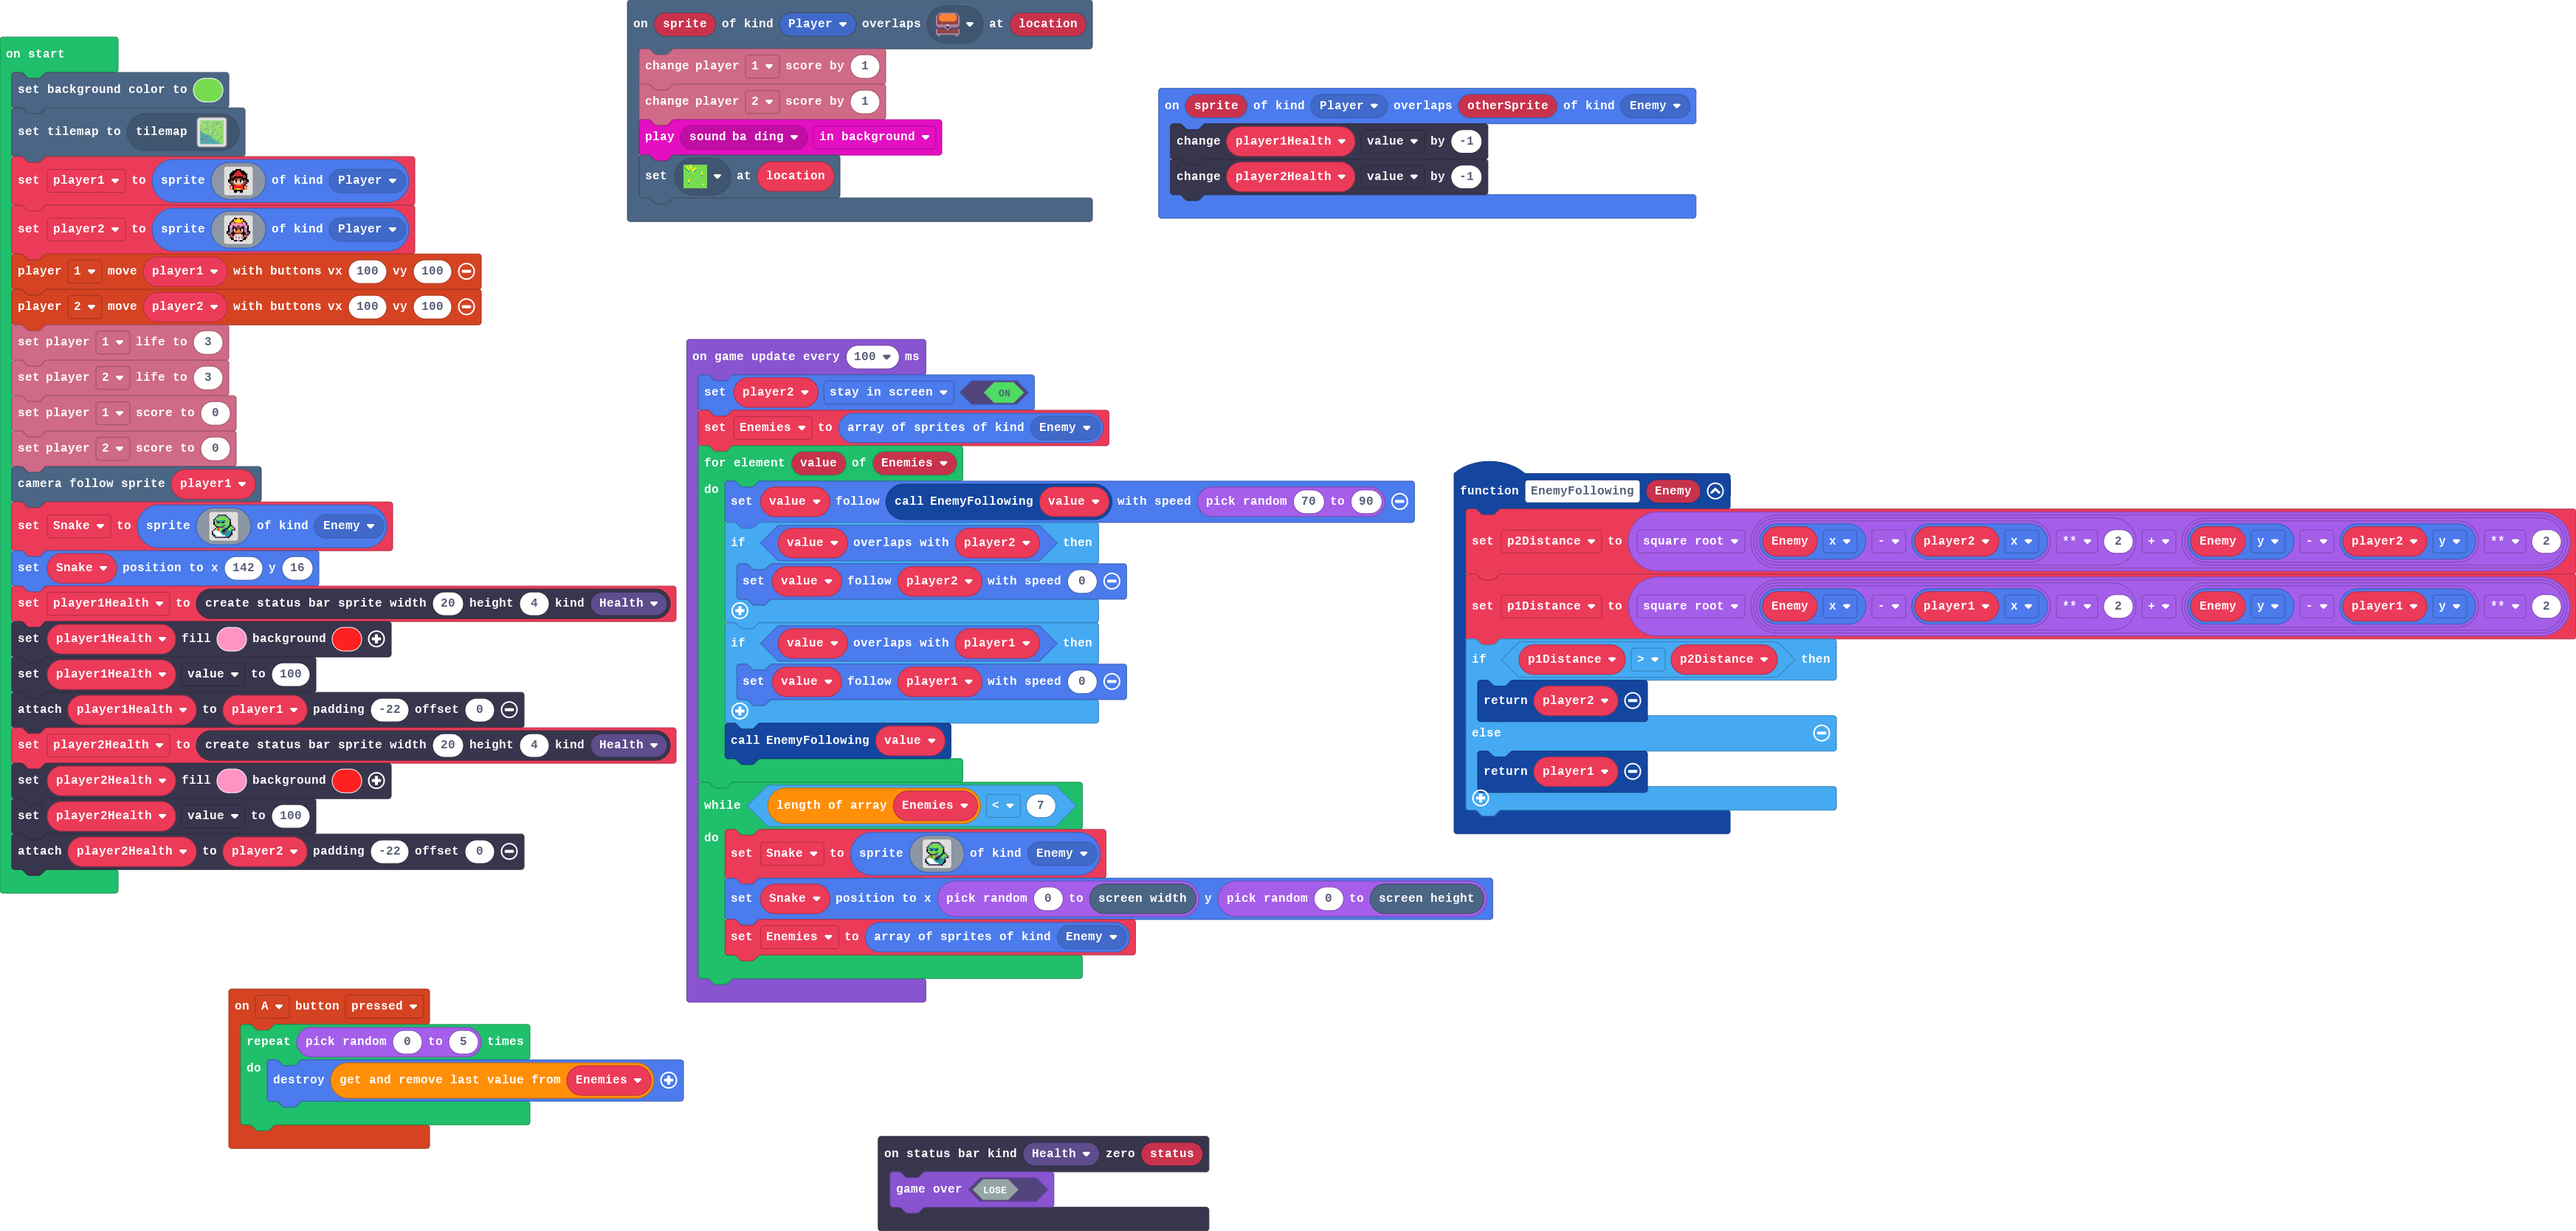
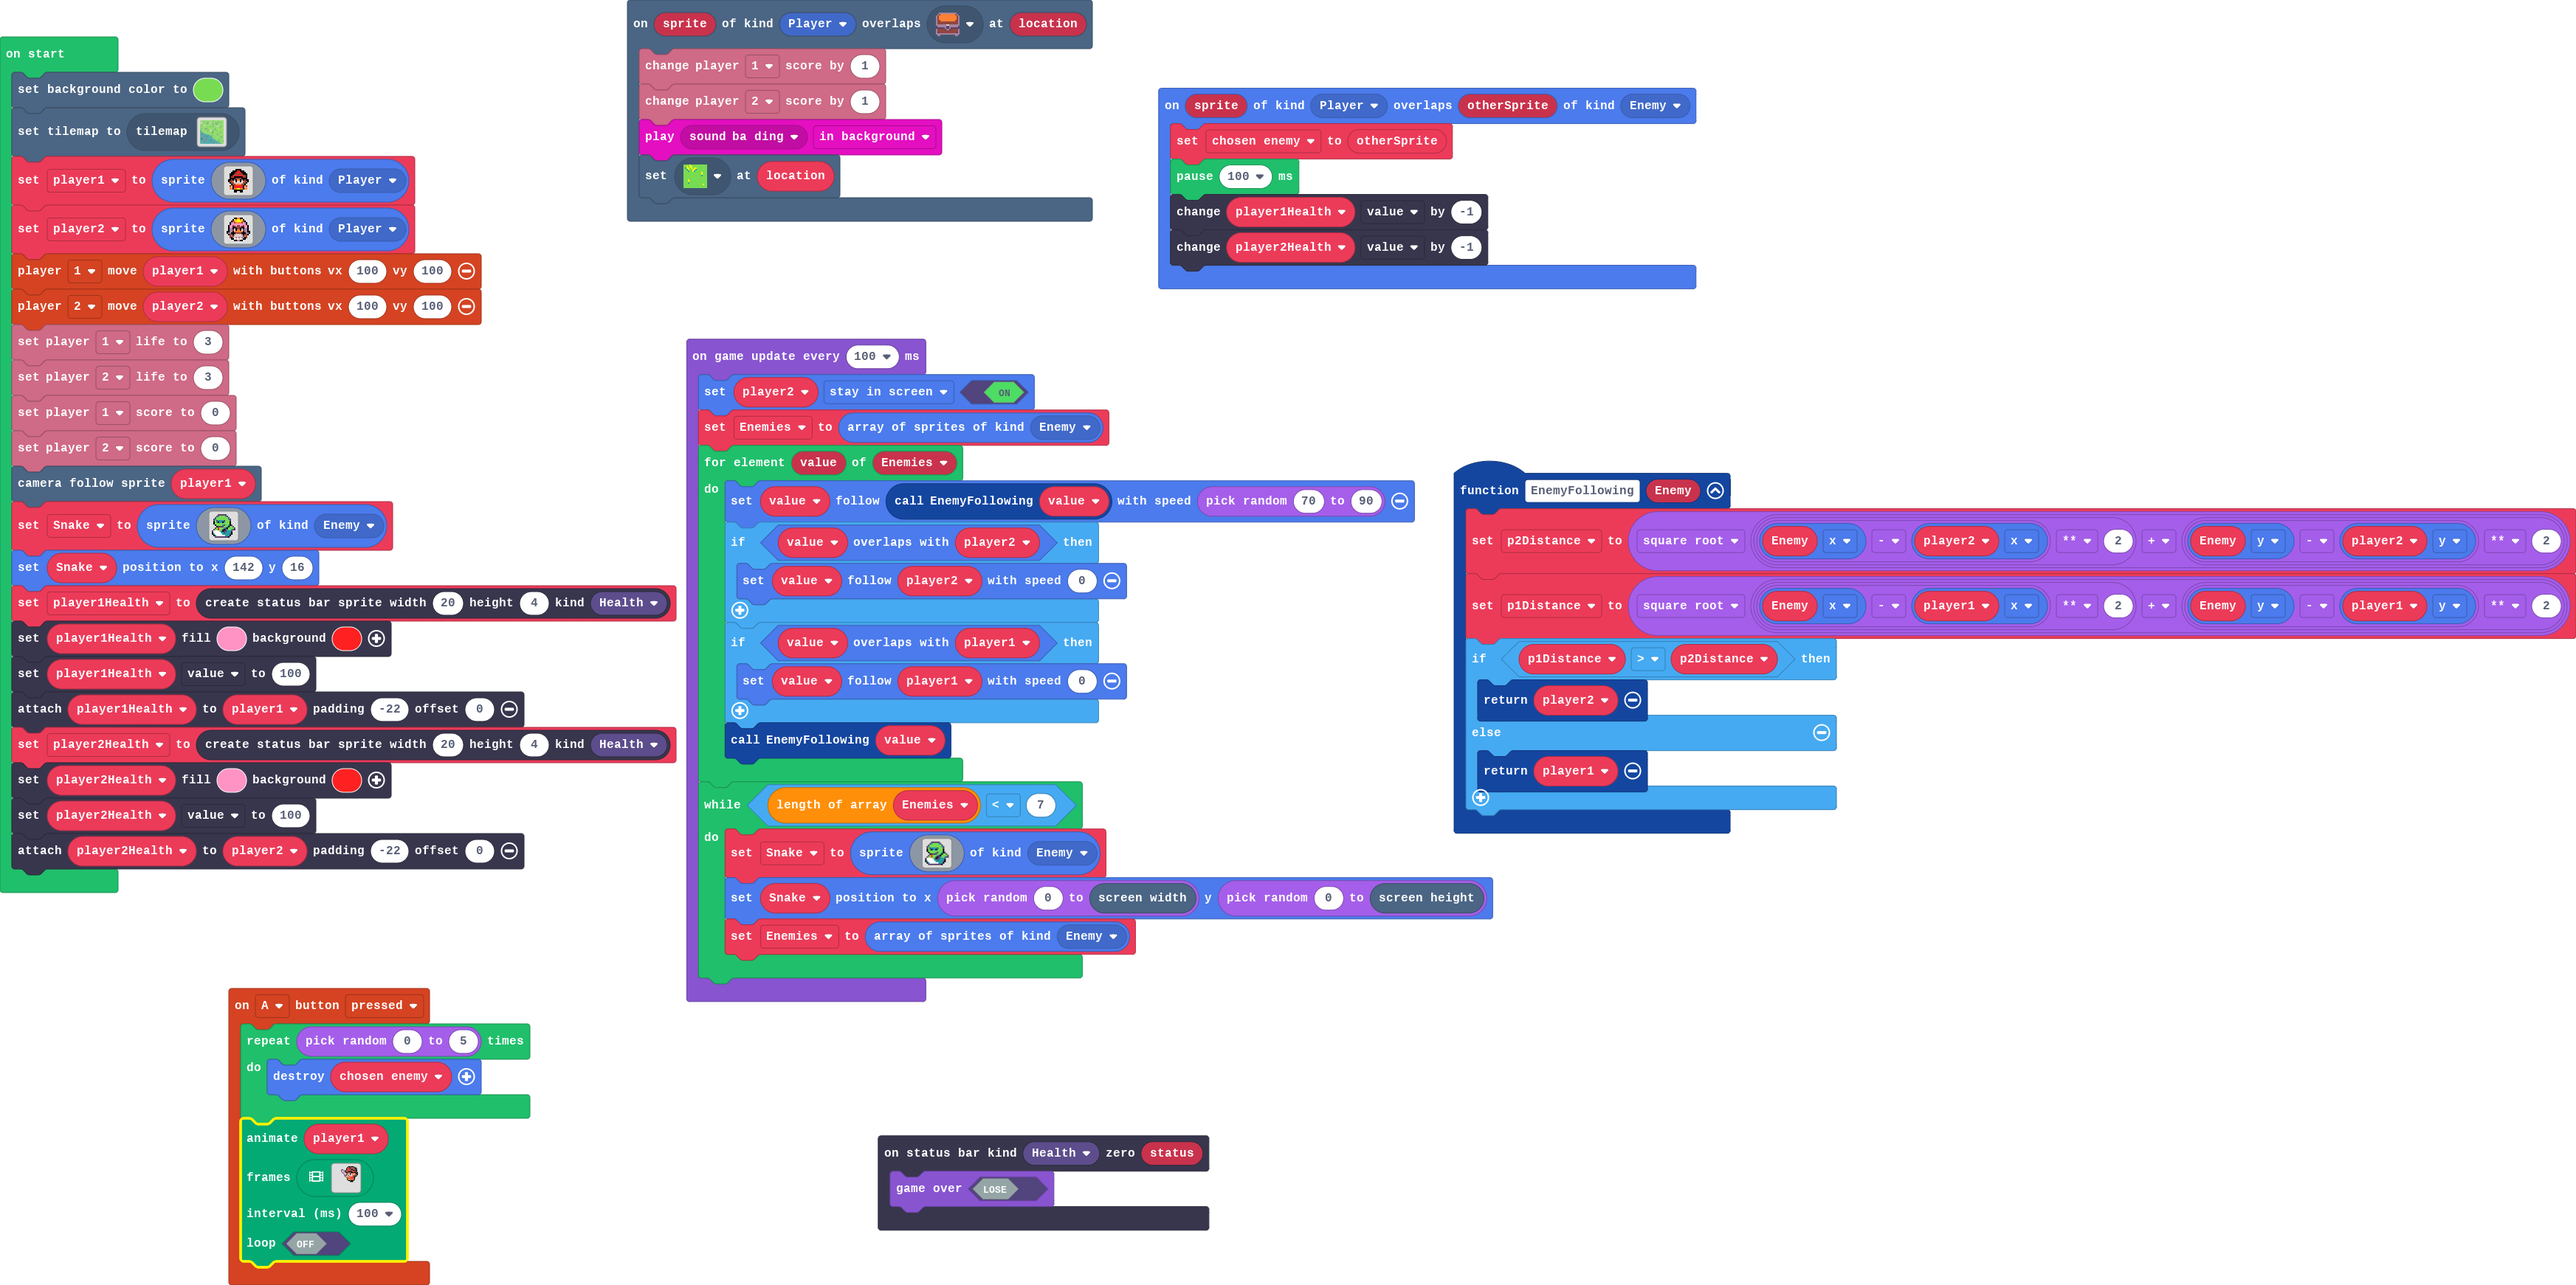
Update main.blocks, main.ts

diff --git a/main.ts b/main.ts
@@ -9,8 +9,114 @@ function EnemyFollowing (Enemy: Sprite) {
 }
 controller.A.onEvent(ControllerButtonEvent.Pressed, function () {
     for (let index = 0; index < randint(0, 5); index++) {
-        sprites.destroy(Enemies.pop())
+        sprites.destroy(chosen_enemy)
     }
+    animation.runImageAnimation(
+    player1,
+    [img`
+        ..............ffffff....
+        .............f2feeeeff..
+        ............f222feeeeff.
+        .......cc...feeeeffeeef.
+        .......cdc.fe2222eeffff.
+        .......cddcf2effff222ef.
+        ........cddcffeeefffffff
+        .........cddce44fbe44eff
+        ..........cdceddf14d4eef
+        ..........cccdeddd4eeef.
+        ...........edd4e44eeff..
+        ............ee442222f...
+        .............f2e2222f...
+        .............f554444f...
+        ..............ffffff....
+        ................fff.....
+        ........................
+        ........................
+        ........................
+        ........................
+        ........................
+        ........................
+        ........................
+        ........................
+        `,img`
+        ........................
+        ..............fff.......
+        .............f2fffff....
+        ...........ff22eeeeeff..
+        ..........ff222eeeeeeff.
+        ..........feeeefffeeeef.
+        .........fe2222eeefffff.
+        .........f2efffff222efff
+        ..cc.....fffeeefffffffff
+        ..cdcc...fee44fbbe44efef
+        ..ccddcc..feddfbb4d4eef.
+        ....cdddceefddddd4eeef..
+        .....ccdcddee2222222f...
+        ......cccdd44e544444f...
+        .........eeeeffffffff...
+        .............ff...fff...
+        ........................
+        ........................
+        ........................
+        ........................
+        ........................
+        ........................
+        ........................
+        ........................
+        `,img`
+        ...............ff.......
+        .............ff2ffff....
+        ............ff2feeeeff..
+        ...........ff22feeeeeff.
+        ...........feeeeffeeeef.
+        ..........fe2222eefffff.
+        ..........f2effff222efff
+        ..........fffeeeffffffff
+        ..........fee44fbe44efef
+        ...........feddfb4d4eef.
+        ..........c.eeddd4eeef..
+        ....ccccccceddee2222f...
+        .....dddddcedd44e444f...
+        ......ccccc.eeeefffff...
+        ..........c...ffffffff..
+        ...............ff..fff..
+        ........................
+        ........................
+        ........................
+        ........................
+        ........................
+        ........................
+        ........................
+        ........................
+        `,img`
+        ..............ffffff....
+        .............f2feeeeff..
+        ............f222feeeeff.
+        ............feeeeffeeef.
+        ...........fe2222eeffff.
+        ...........f2effff222ef.
+        ...........fffeeefffffff
+        ...........fee44fbe44eff
+        ............feddf14d4eef
+        .............fdddd4eeef.
+        .............fe444eddf..
+        .............ccc22eddf..
+        .............cdc22fee...
+        ............cddc4444f...
+        ...........cddcfffff....
+        ..........cddc..fff.....
+        ..........cdc...........
+        ..........cc............
+        ........................
+        ........................
+        ........................
+        ........................
+        ........................
+        ........................
+        `],
+    100,
+    false
+    )
 })
 scene.onOverlapTile(SpriteKind.Player, sprites.dungeon.chestClosed, function (sprite, location) {
     info.player1.changeScoreBy(1)
@@ -22,10 +128,13 @@ statusbars.onZero(StatusBarKind.Health, function (status) {
     game.gameOver(false)
 })
 sprites.onOverlap(SpriteKind.Player, SpriteKind.Enemy, function (sprite, otherSprite) {
+    chosen_enemy = otherSprite
+    pause(100)
     player1Health.value += -1
     player2Health.value += -1
 })
 let Enemies: Sprite[] = []
+let chosen_enemy: Sprite = null
 let p1Distance = 0
 let p2Distance = 0
 let player2Health: StatusBarSprite = null
